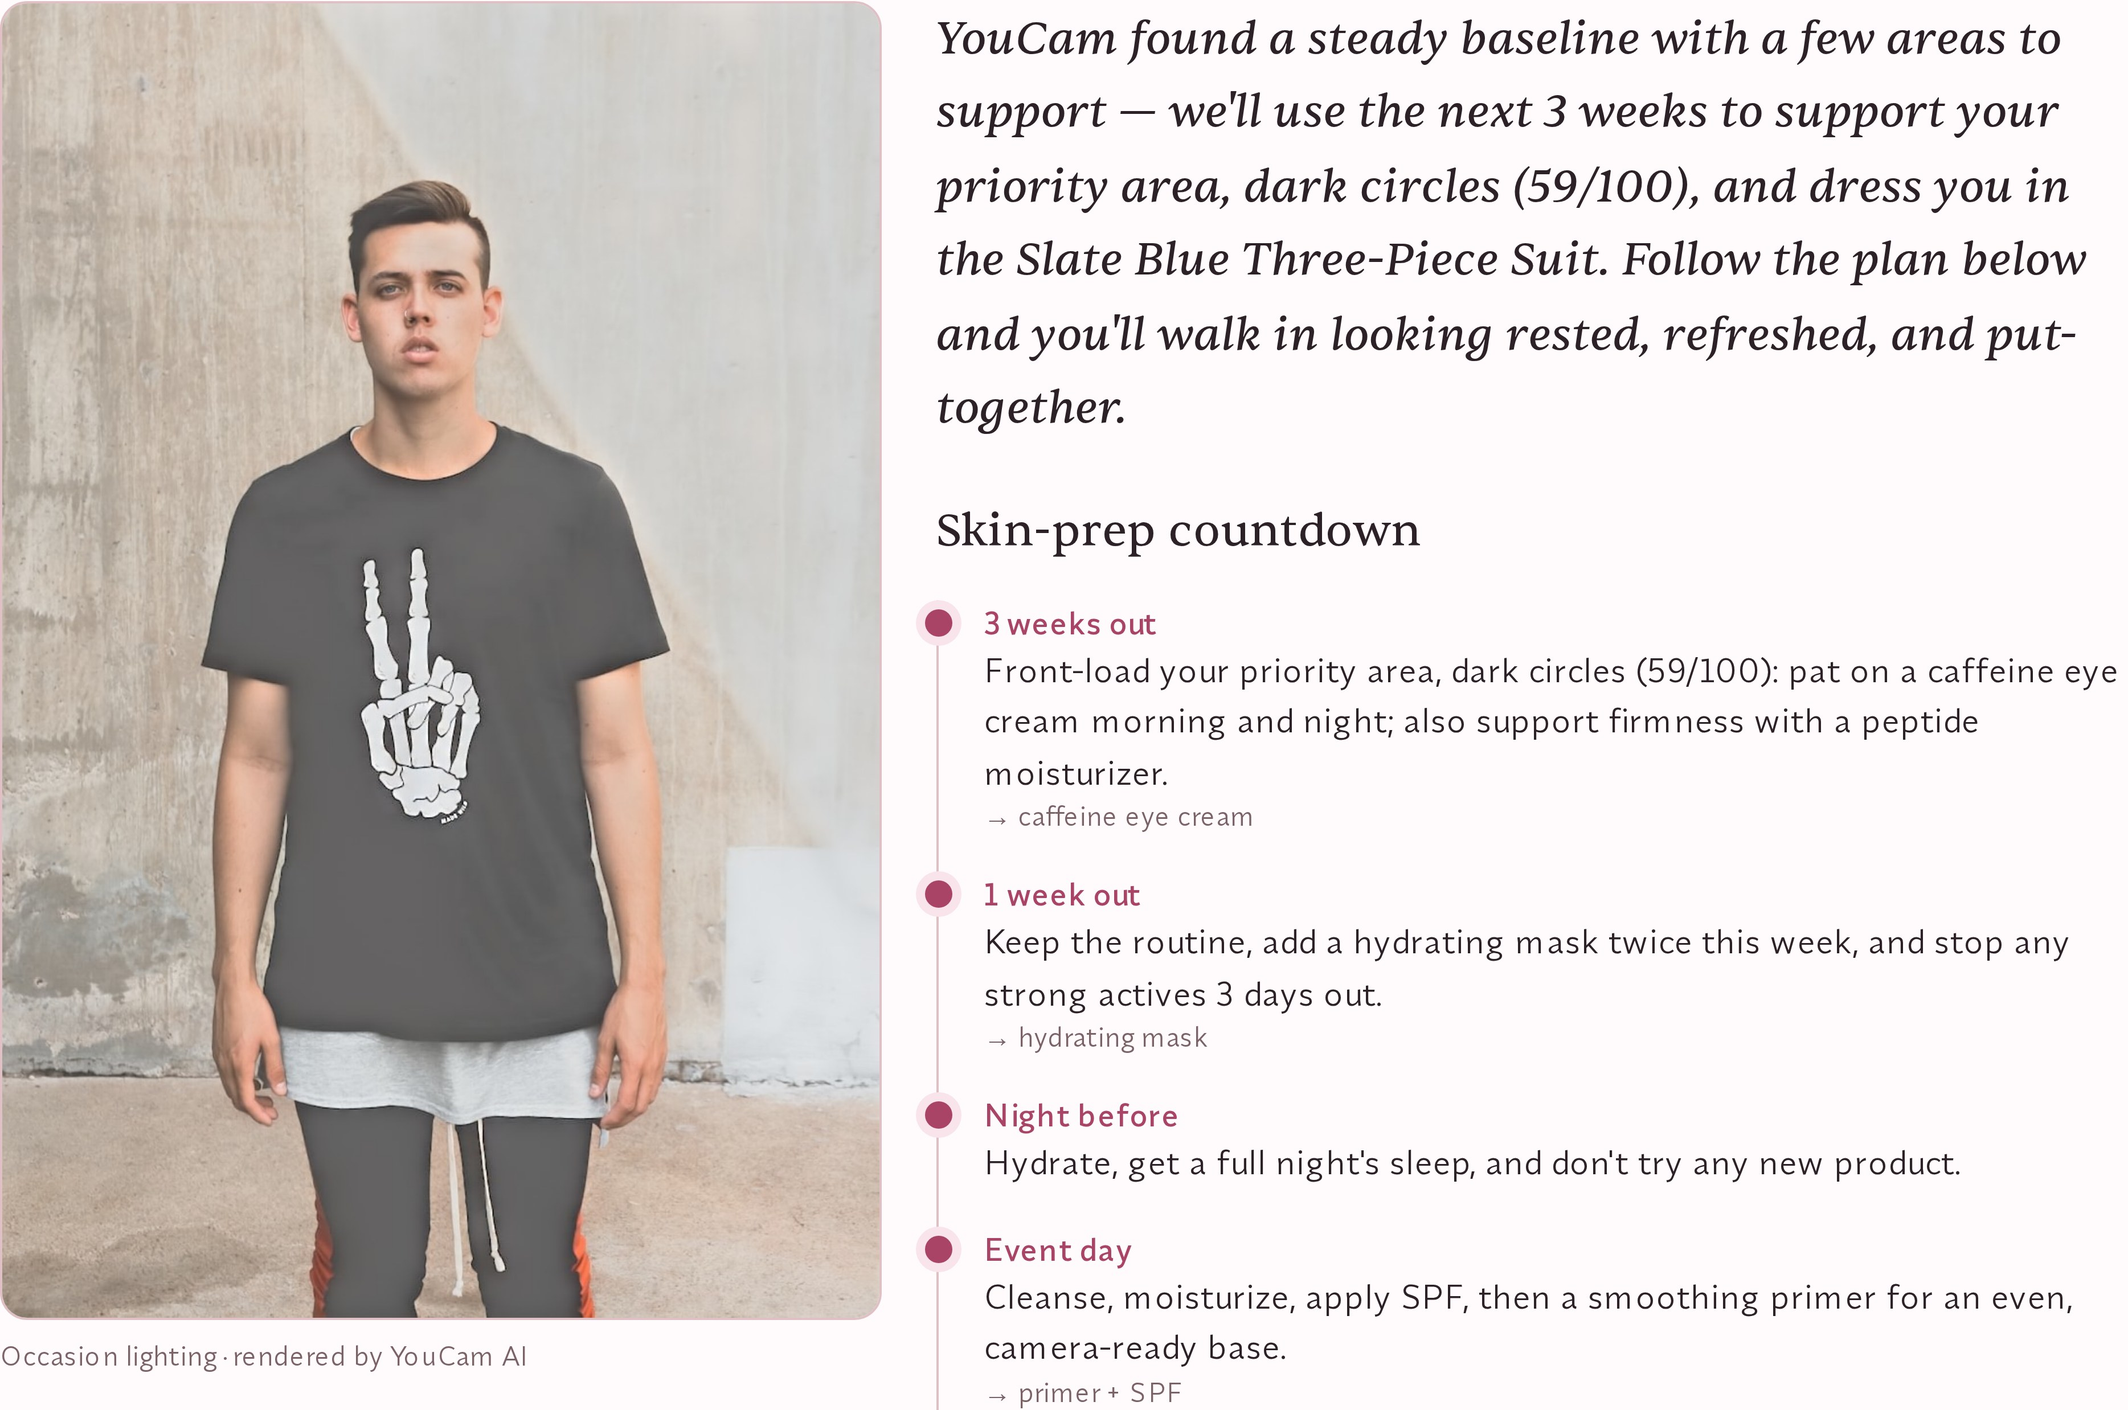
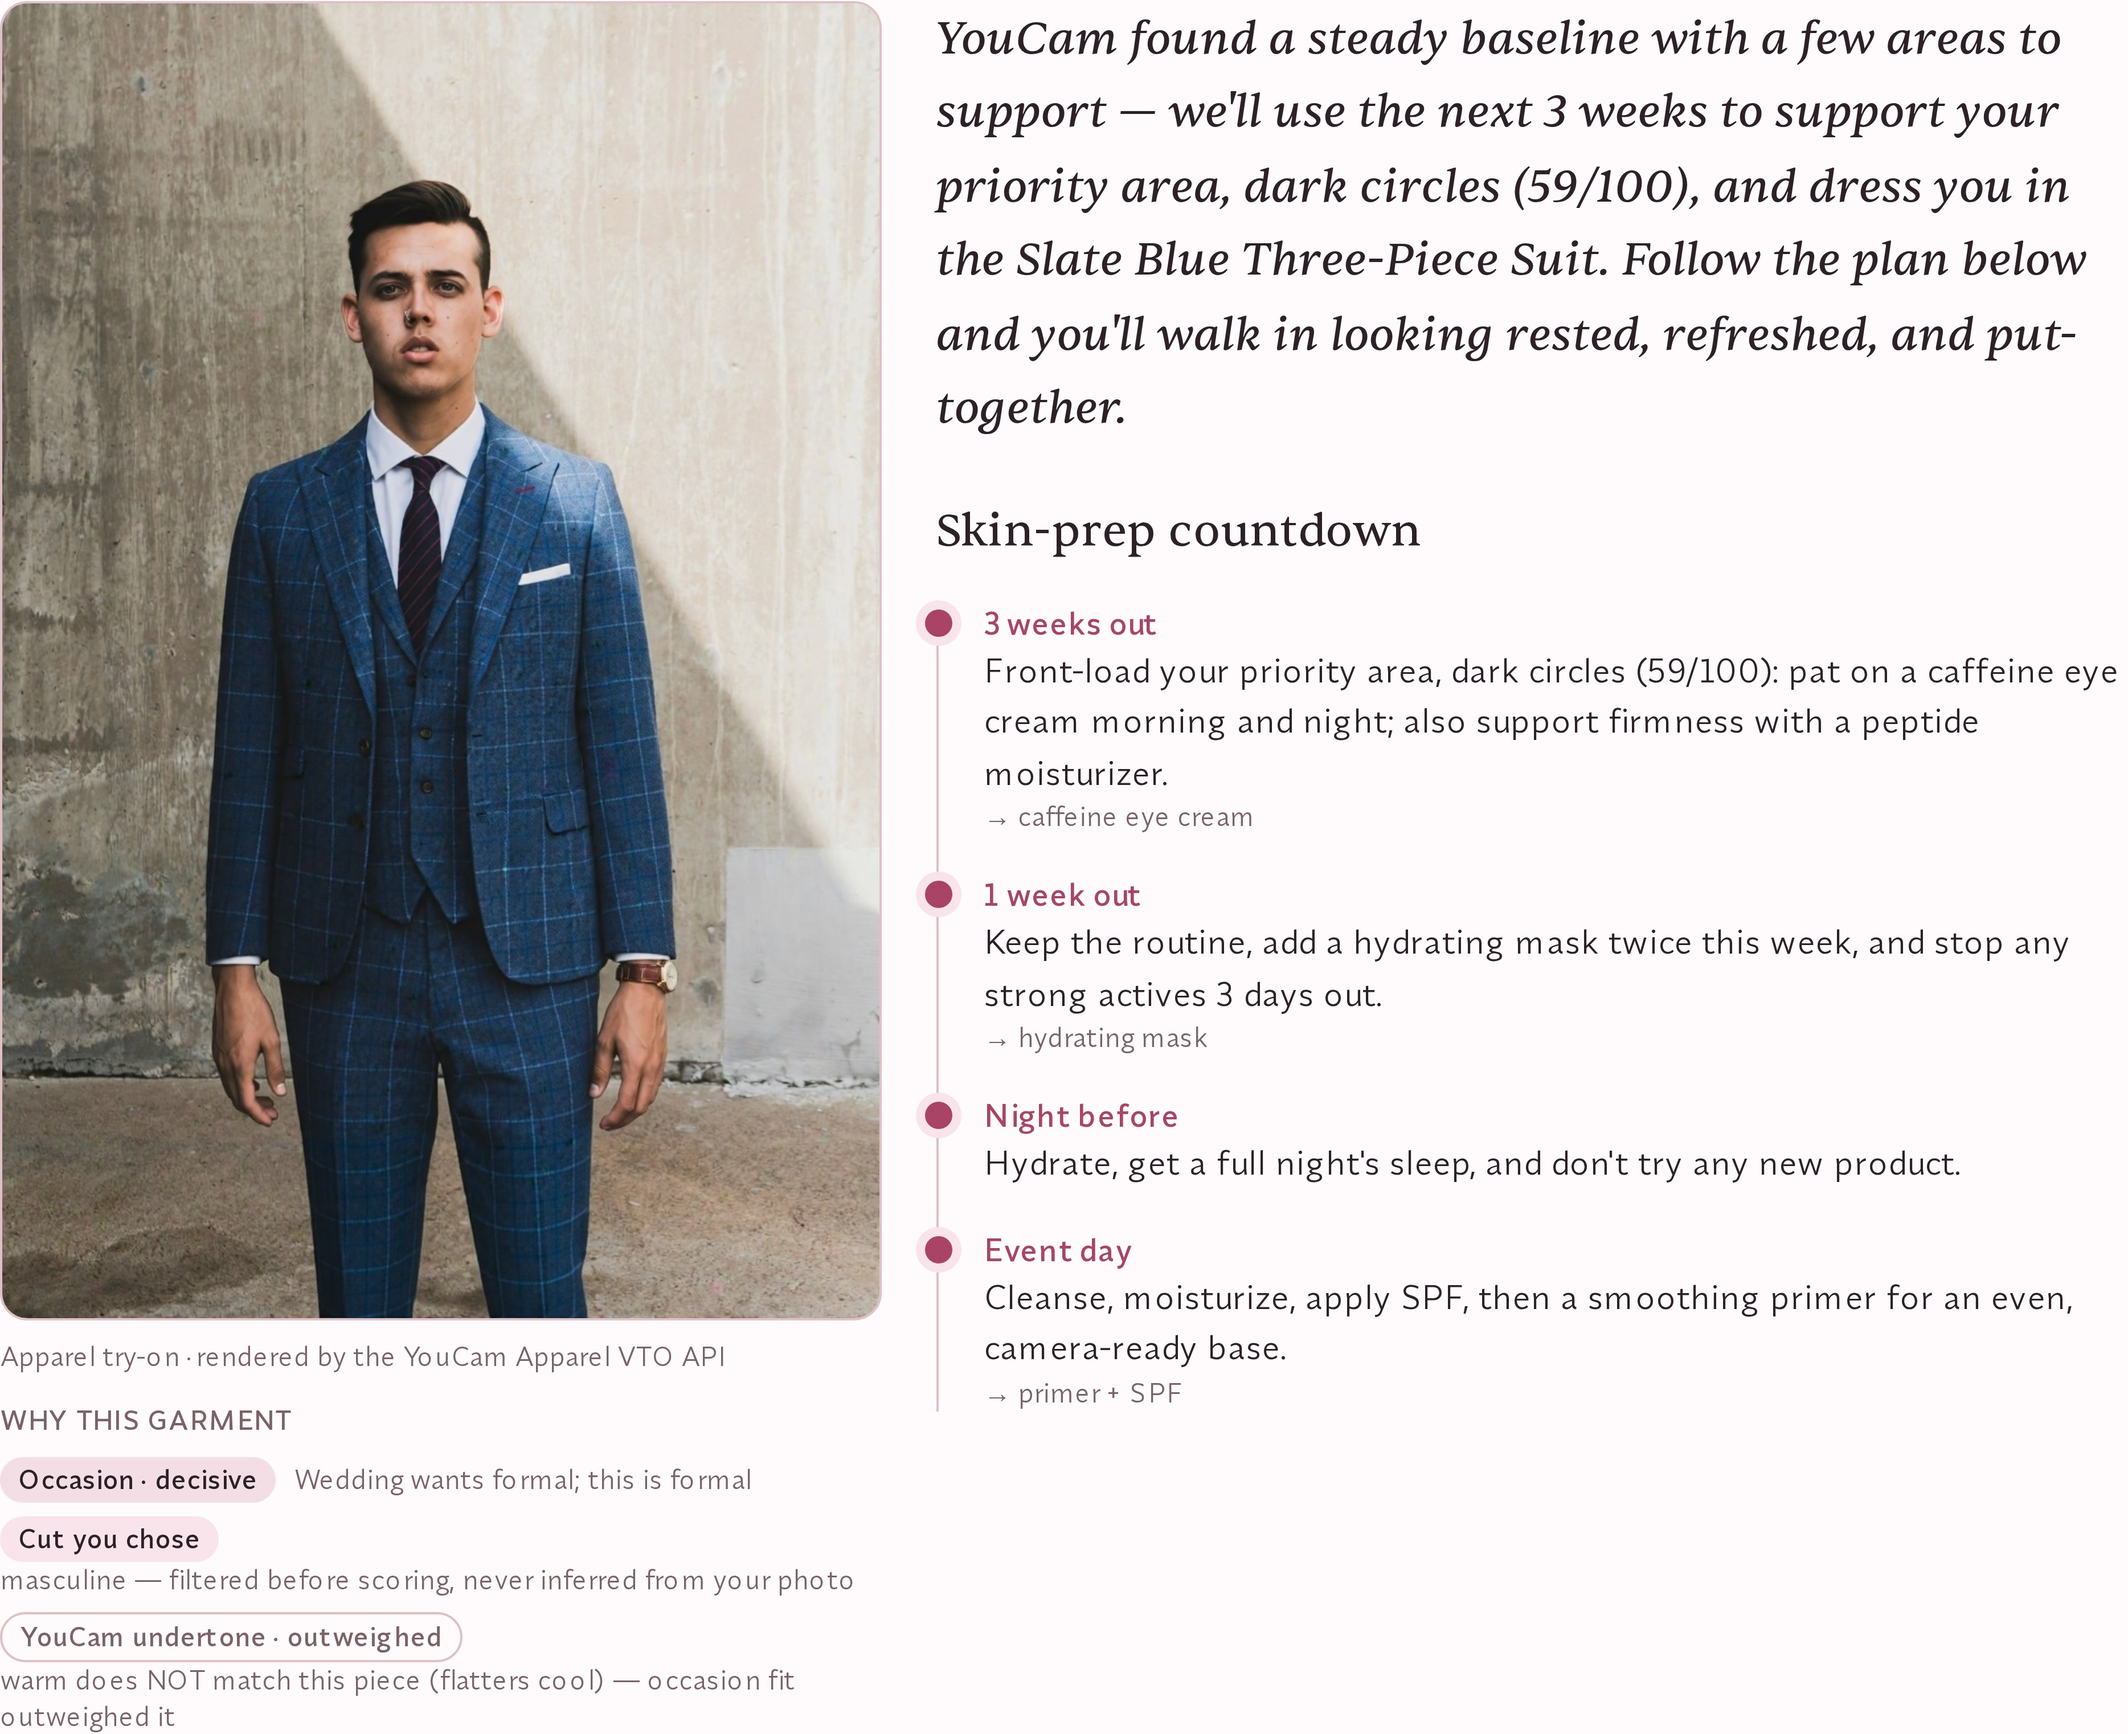
Galerie neu: der Hero zeigt den Anzug, und ein Frame fuer die Kausalkette
Zwei Aenderungen von heute machen Screenshots veraltet: der Board-Hero ist jetzt die
Anprobe statt des Relights, und das Board traegt 'Why this garment'. Elf Stills gegen
1f1b88a aus einem Produktionsbuild mit konfiguriertem Gate, null Einheiten.

Neu ist 11-why-this-garment.jpg -- der Frame, der der Galerie gefehlt hat: die drei
Faktoren in der Reihenfolge, in der sie gewichtet haben, inklusive 'YouCam undertone -
outweighed: warm does NOT match this piece (flatters cool)'. Genau die Zeile, deren
Fehlen das Panel der Narration vorgeworfen hat.

diff --git a/submission/screenshots/README.md b/submission/screenshots/README.md
@@ -1,6 +1,6 @@
 # Screenshot gallery
 
-Captured **2026-08-12** (second pass, after two approved units-on captures) from a **production build** in demo mode (`YOUCAM_FIXTURES=1`,
+Captured **2026-08-15** (fourth pass, after the review-003 fixes) from a **production build** in demo mode (`YOUCAM_FIXTURES=1`,
 access gate configured), driven headlessly at 1440×900 on a 2× display. Zero YouCam
 units were spent taking them.
 
@@ -26,9 +26,14 @@ configured, which is not what a judge meets on the hosted instance.
    appears in none of the samples**, captioned "Occasion lighting · rendered by YouCam
    AI" beside a narrative about a different person's suit. The frame asserted the API
    had relit a face it never saw. Found by looking at the file, not by reading code.
-3. This one, taken after the render fixtures were keyed to the person they depict **and**
-   after two approved live tasks filled the two gaps that keying exposed: a relight of the
+3. Ten stills from **2026-08-12**, after the render fixtures were keyed to the person they
+   depict and two approved live tasks filled the gaps that keying exposed: a relight of the
    wedding sample (`receipts/002`) and a try-on for the second face (`receipts/003`).
+4. This one, **2026-08-15**, because review 003 changed two things a screenshot shows.
+   The look board's hero is now the try-on render rather than the relight — the payoff
+   frame shows the payoff — and the board carries a new panel, `11-why-this-garment.jpg`,
+   which is the frame this gallery was missing: the factors the picker actually weighted,
+   in weight order, including the one that did **not** agree.
 
 | File | What it shows | Why it earns a slot |
 |---|---|---|
@@ -36,9 +41,10 @@ configured, which is not what a judge meets on the hosted instance.
 | `02-apparel-vto.jpg` | The hero comparator | Same person, same wall, same light — it cannot be mistaken for a stock pair |
 | `03-skin-scores.jpg` | The 0–100 skin read, lowest first | Scores framed as priority areas, never as defects |
 | `04-colour-palette.jpg` | Undertone and palette | Derived from the colour hex the API actually detected on this photo (`#b7947d`) |
-| `05-countdown.jpg` | The look board | The hero is the **YouCam relight of the photo in the run** — captured live on 2026-08-12, receipt `hackathon/receipts/002`. The countdown differs in *kind* by how far off the date is |
+| `05-countdown.jpg` | The look board | The hero is now the **try-on render** — the garment the plan promises, on the photo from this run. The countdown differs in *kind* by how far off the date is |
 | `06-priced-basket.jpg` | One cross-category priced basket | The retail case on screen rather than asserted |
 | `07-provenance-ledger.jpg` | The provenance ledger | Reads "**4** Perfect Corp APIs produced these samples. Nothing was called just now." All four, each backed by a committed receipt — and it still says plainly that nothing was called during this run |
 | `08-render-pair.jpg` | The try-on panel | The render, captioned with the API that made it |
 | `09-skin-overlay-captured.jpg` | The comparator with a **captured** YouCam mask | Both halves are the same photo — this face's own dark-circle mask from a real run |
 | `10-judge-unlock.jpg` | The `/unlock` gate | Where a judge redeems the Devpost code, and where the run budget is stated before they spend it |
+| `11-why-this-garment.jpg` | The causal edge | The three factors behind the garment, in the order the picker weighted them — and it says out loud that the undertone was **outweighed** by occasion fit on this run. A chain that only ever reports agreement is not evidence of a chain |
